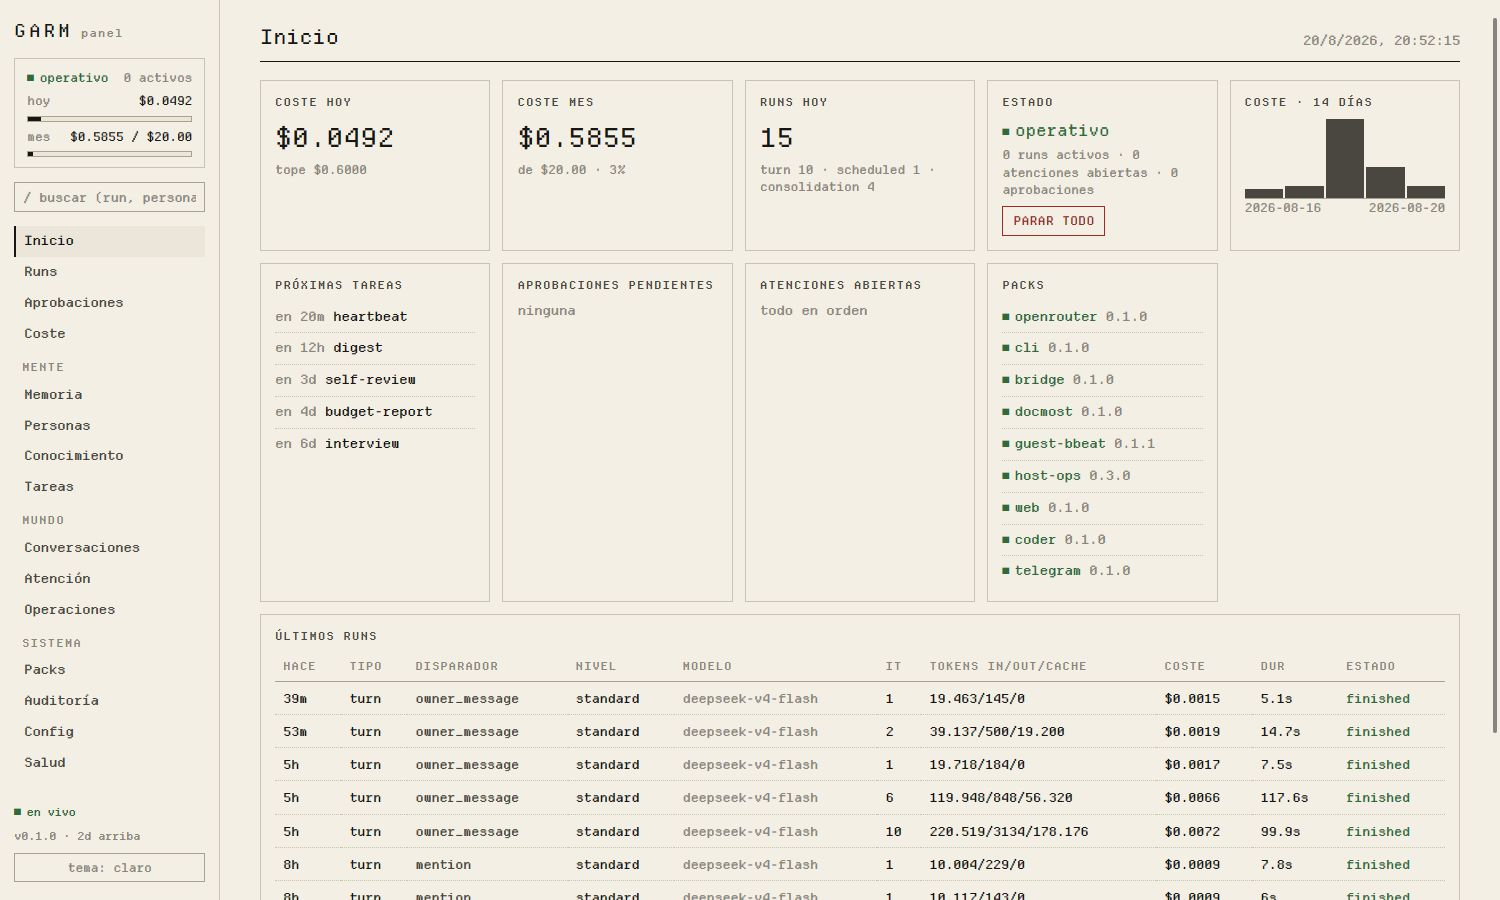
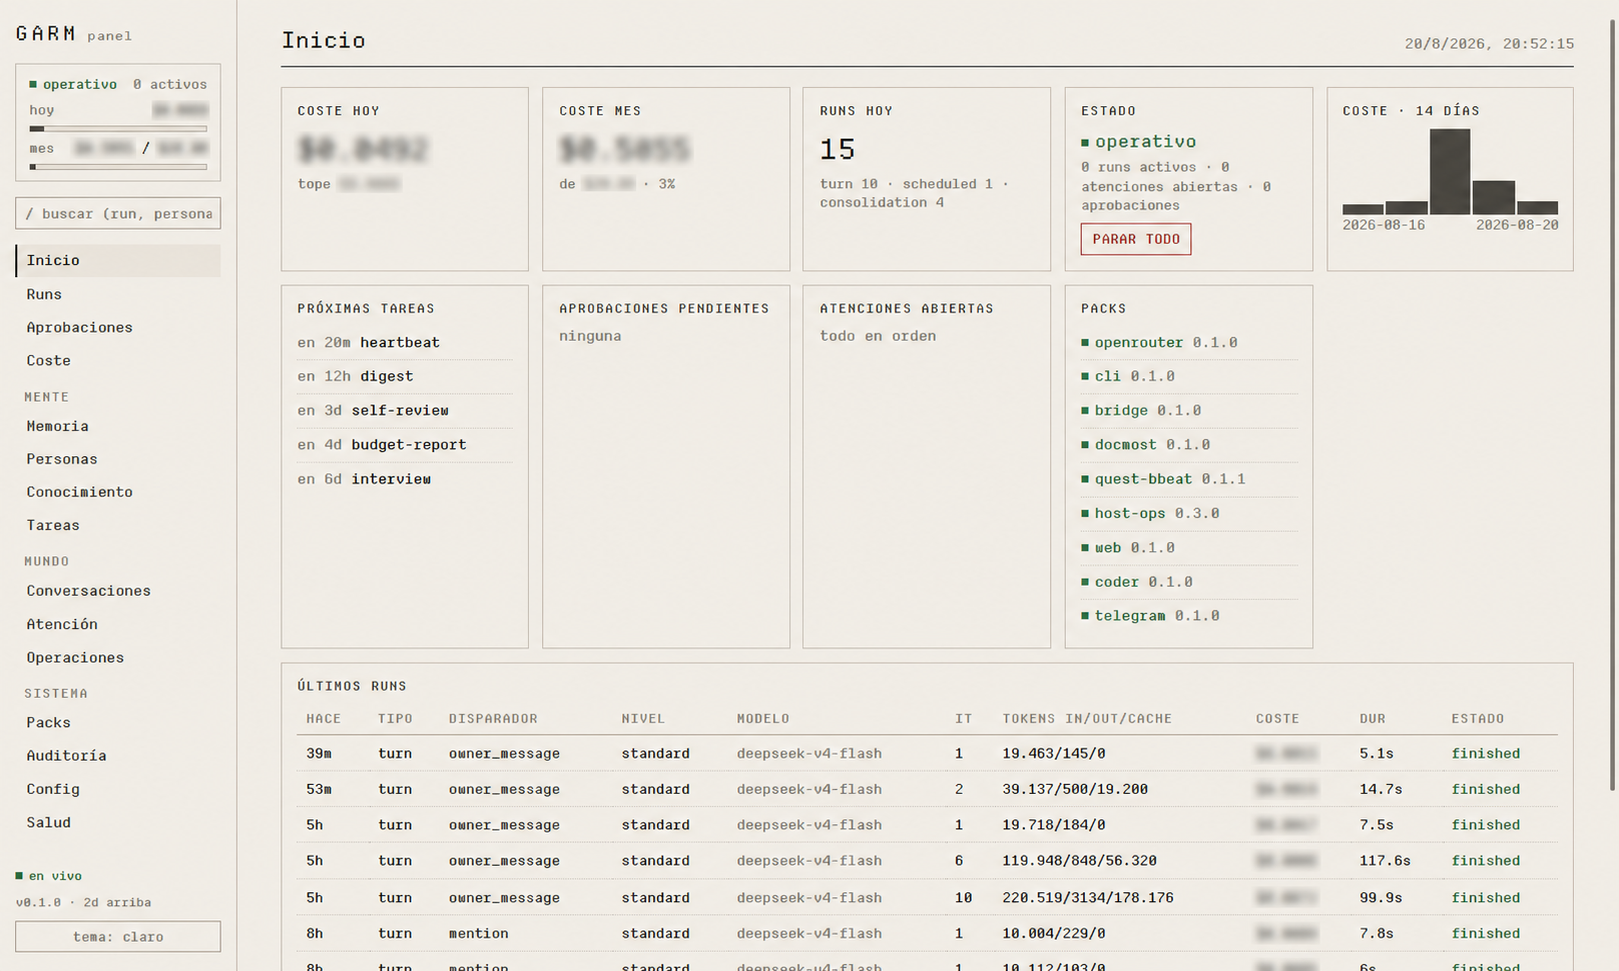
Redact Garm costs in panel asset

diff --git a/app/globals.css b/app/globals.css
@@ -47,13 +47,6 @@
 @keyframes swipe-down{50%{transform:translateY(4px)}}
 @media(prefers-reduced-motion:reduce){.swipe-cue .arrow-icon{animation:none}}
 
-/* Keep operating costs private while preserving the control-plane preview. */
-.garm-screen{position:relative}
-.garm-redact{position:absolute;z-index:2;display:block;border-radius:3px;background:rgba(234,229,218,.28);backdrop-filter:blur(7px);-webkit-backdrop-filter:blur(7px);box-shadow:inset 0 0 8px rgba(234,229,218,.28)}
-.gr-side-today{left:8.8%;top:9.2%;width:4.9%;height:3.8%}
-.gr-side-month{left:4.5%;top:13.1%;width:9.2%;height:3.8%}
-.gr-main-today{left:18%;top:12.8%;width:9.2%;height:5.5%}
-.gr-main-month{left:34.1%;top:12.8%;width:9.8%;height:5.5%}
 
 @media(max-width:800px){.case-garm{padding-top:82px}.case-garm .case-copy{width:100%}.case-garm h2{font-size:clamp(56px,17vw,72px);margin:10px 0 12px}.case-garm .case-lead{max-width:94%;font-size:clamp(16px,4.5vw,19px)!important}.case-garm .case-copy p:not(.case-lead){max-width:94%;font-size:11px;line-height:1.35}.garm-proof{width:100%;margin-top:11px}.garm-proof span{min-height:39px;padding:5px;font-size:5px}.garm-proof b{font-size:13px}.garm-stage{left:18px;right:18px;top:auto;bottom:62px;width:auto;height:min(31vh,270px)}.garm-window{inset:0;transform:perspective(1000px) rotateY(-3deg) rotateZ(.35deg)}.garm-window-bar{height:23px;font-size:4.5px}.garm-window-bar b{font-size:4.5px}.garm-screen{height:calc(100% - 23px)}.garm-window:after{top:23px}.garm-chip{padding:5px 6px;font-size:4.5px}.gc1{left:-2px;top:-8px}.gc2{right:-2px;top:42%}.gc3{display:none}.garm-flow{display:none}}
 @media(max-width:800px) and (max-height:720px){.case-garm{padding-top:72px}.case-garm h2{font-size:48px;margin:6px 0 8px}.case-garm .case-lead{font-size:14px!important;margin-bottom:7px}.case-garm .case-copy p:not(.case-lead){display:none}.garm-proof{margin-top:7px}.garm-proof span{min-height:34px}.garm-stage{bottom:46px;height:31vh}}

diff --git a/app/page.tsx b/app/page.tsx
@@ -202,10 +202,7 @@ export default function Home() {
           <div className="garm-stage" aria-hidden="true">
             <div className="garm-window">
               <div className="garm-window-bar"><i /><i /><span>MIKOSHI / GARM CONTROL PLANE</span><b>● LIVE</b></div>
-              <div className="garm-screen">
-                <i className="garm-redact gr-side-today" /><i className="garm-redact gr-side-month" />
-                <i className="garm-redact gr-main-today" /><i className="garm-redact gr-main-month" />
-              </div>
+              <div className="garm-screen" />
             </div>
             <span className="garm-chip gc1">CONTEXT / MEMORY</span>
             <span className="garm-chip gc2">POLICY / APPROVAL</span>
